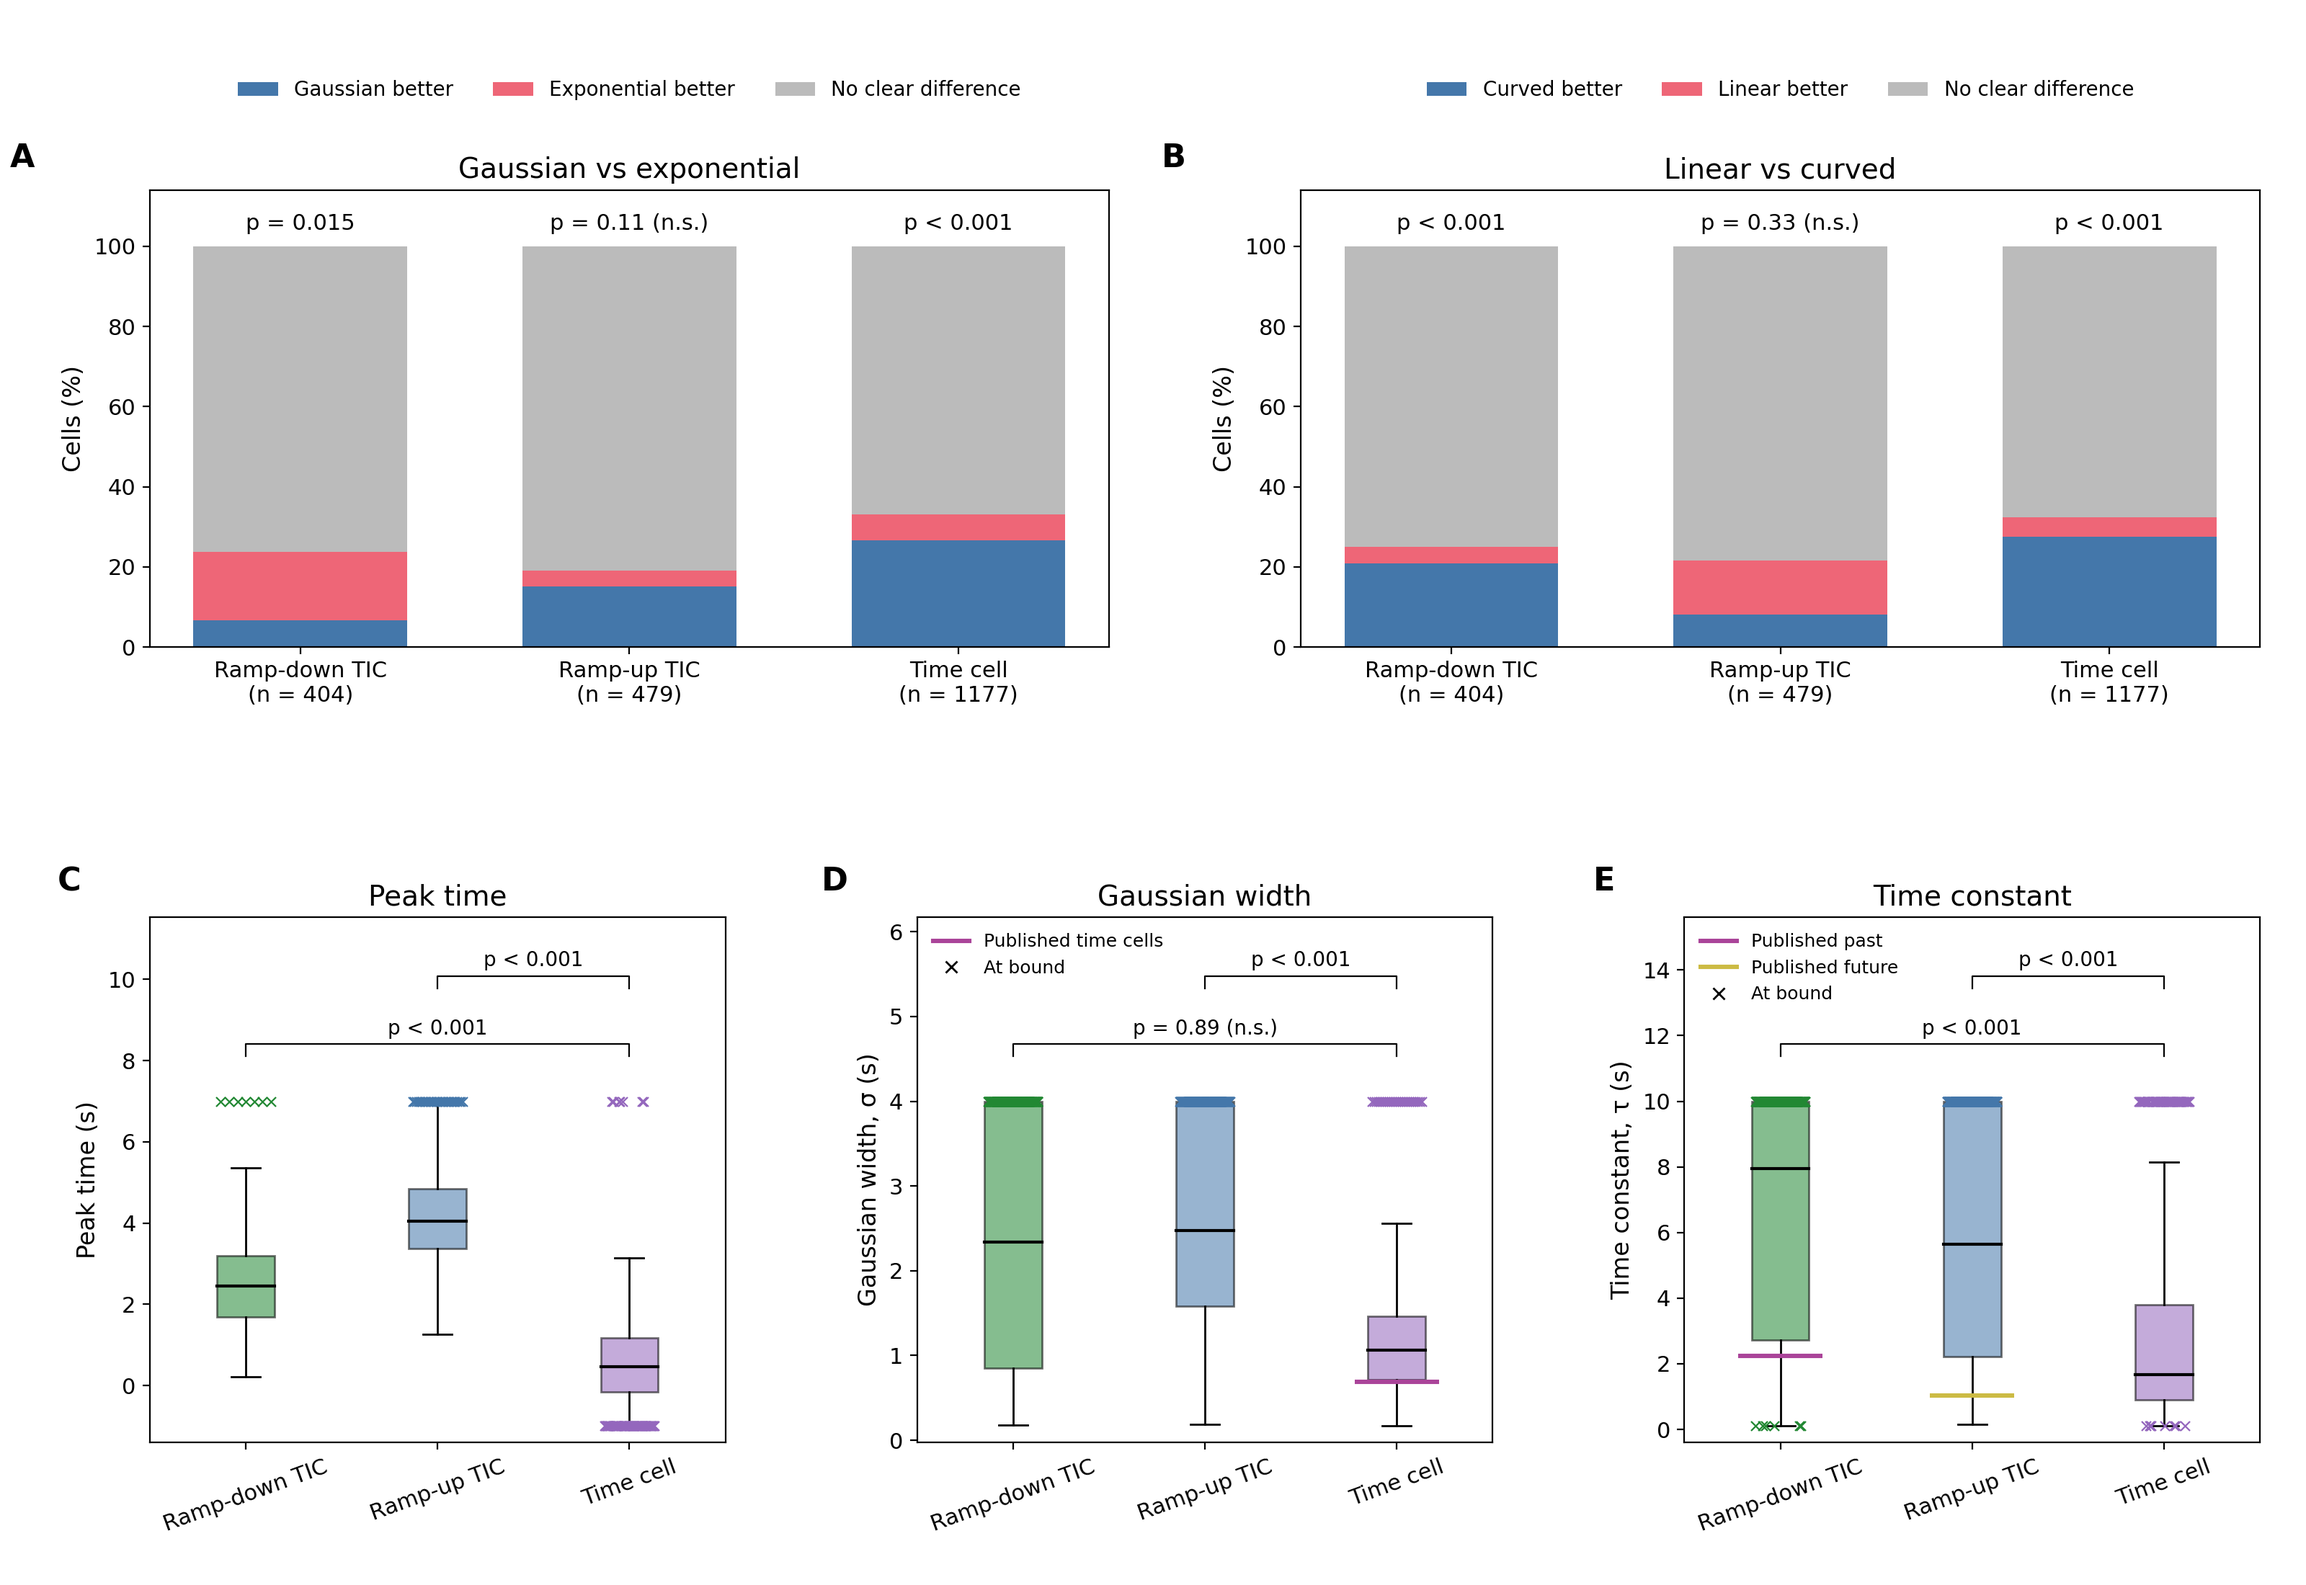
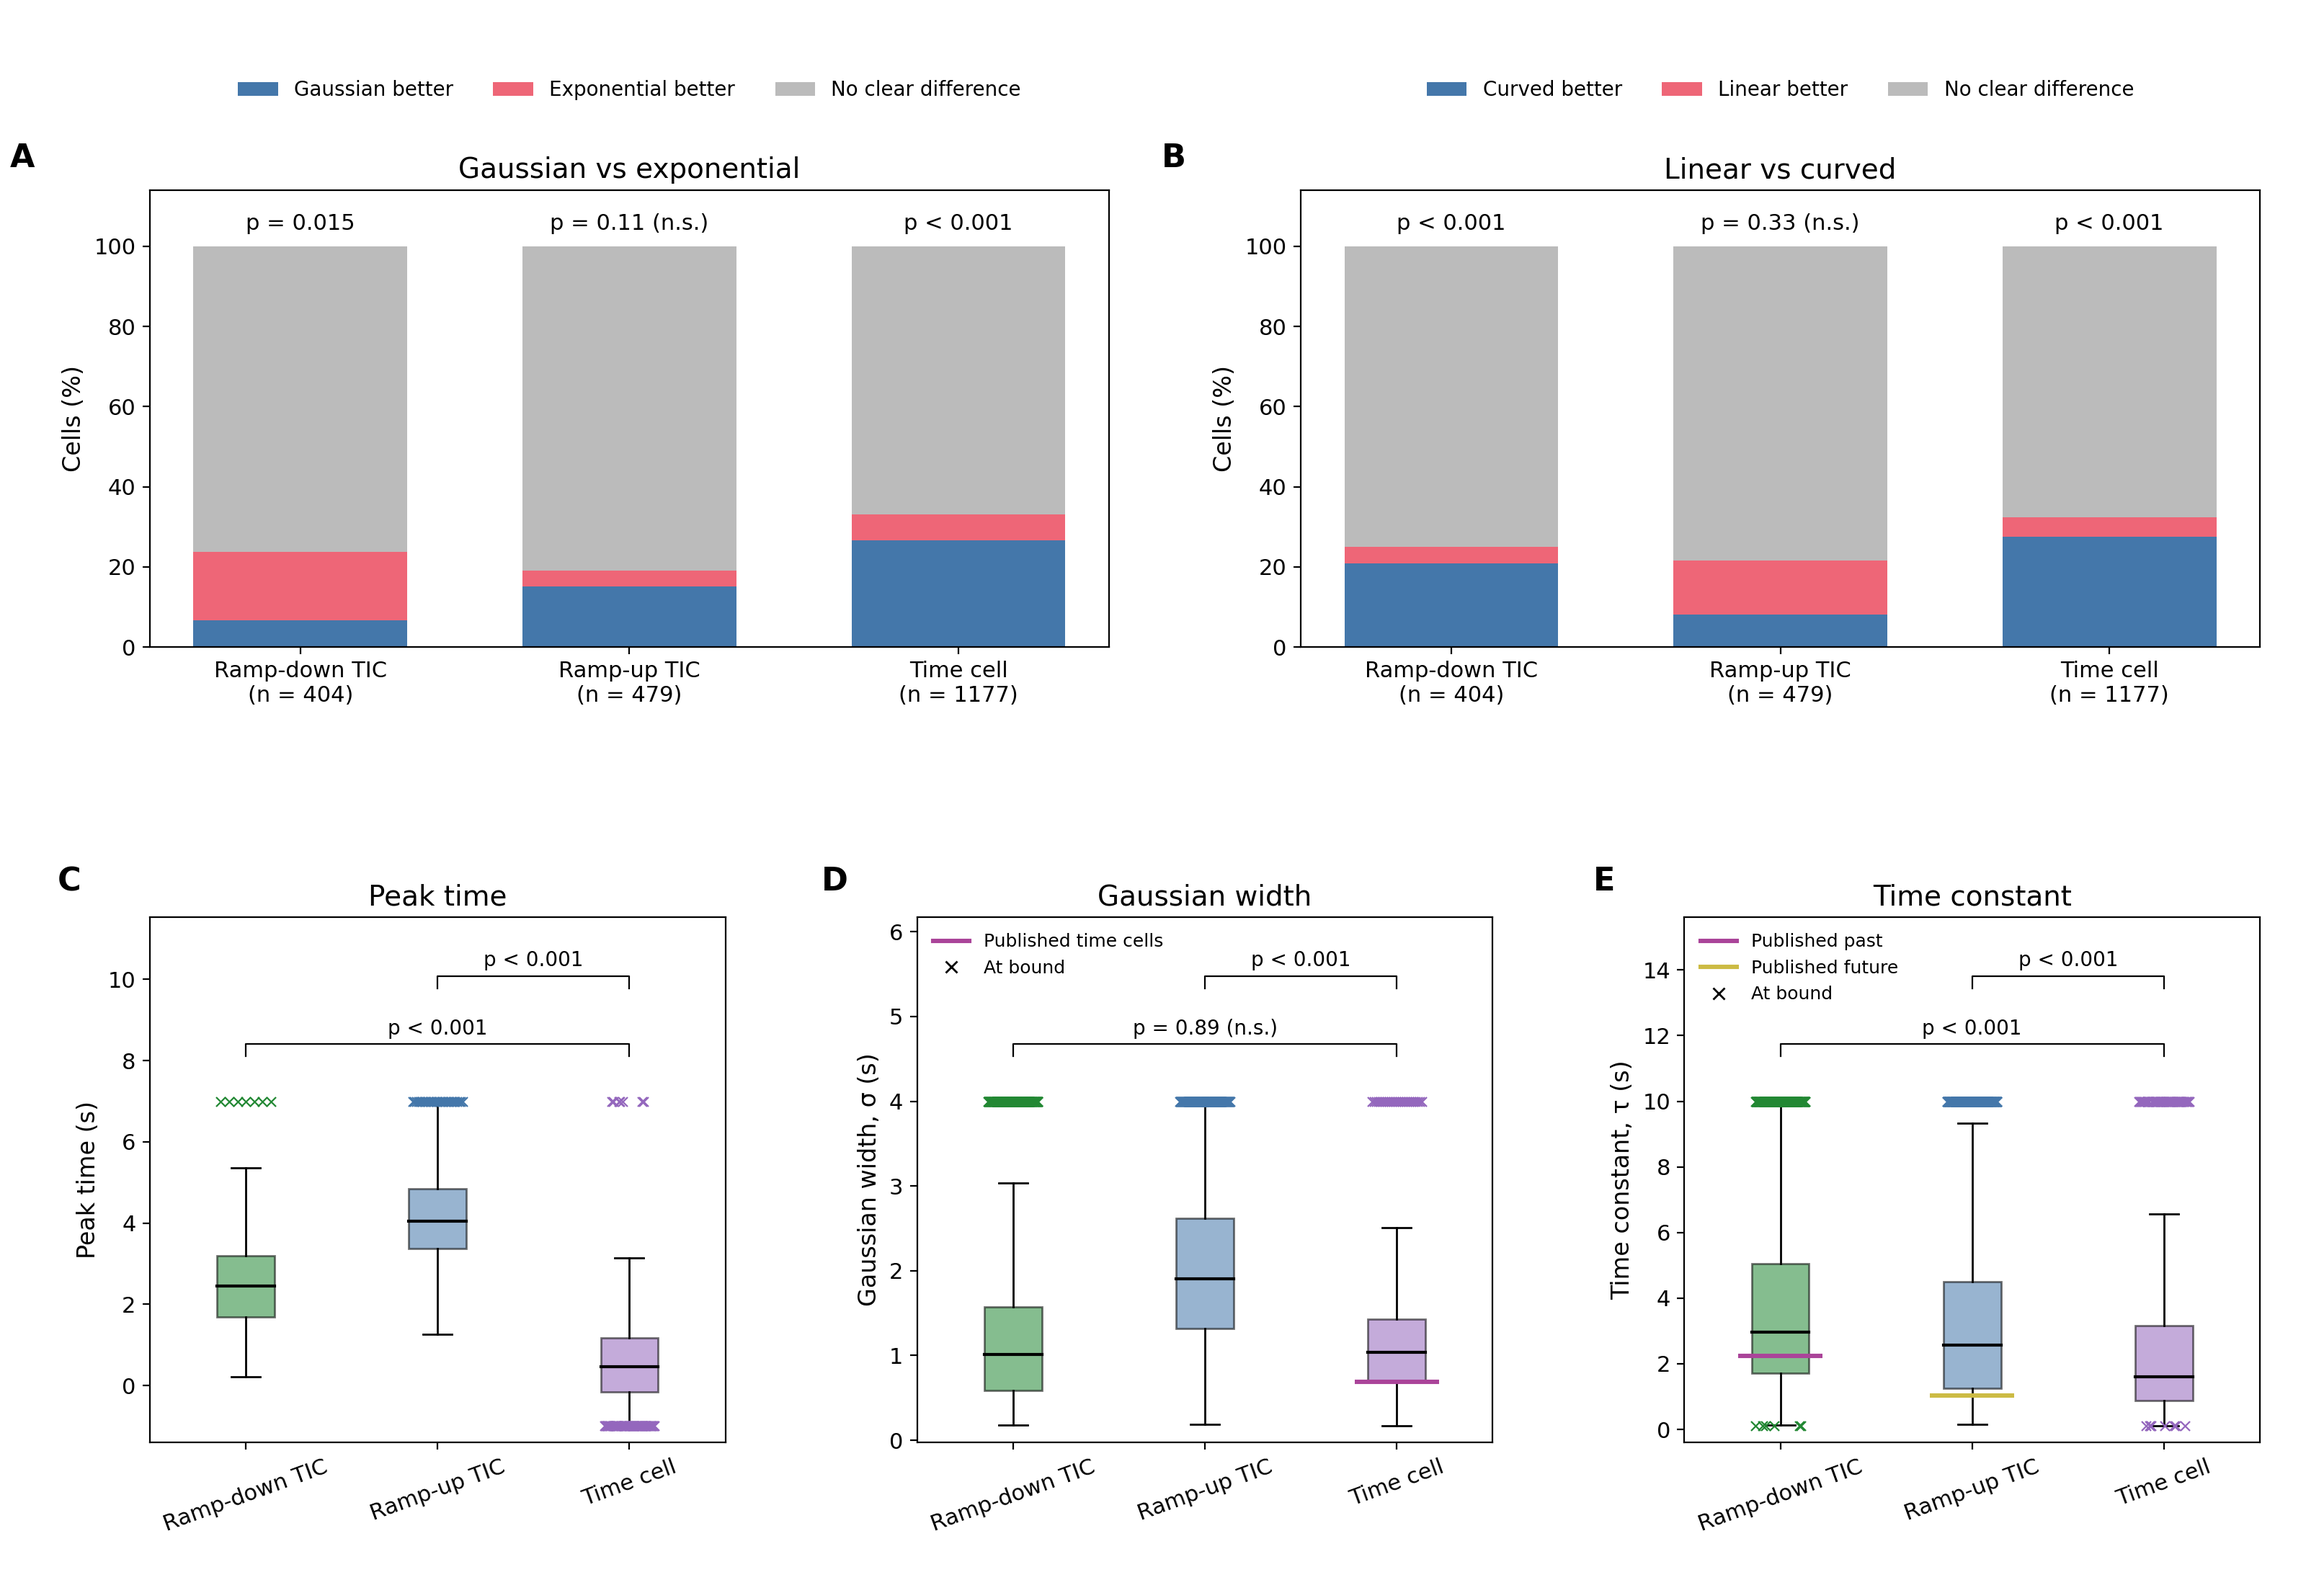
plot unbound summary parameter boxes

diff --git a/analysis/summary_figure.py b/analysis/summary_figure.py
@@ -246,7 +246,7 @@ def make_figure(table, fits, suffix='', wider=False):
     for ax, panel, measure, title, ylabel in zip(axes[2:], ['C', 'D', 'E'],
             ['peak', 'width', 'ramp rate'], ['Peak time', 'Gaussian width', 'Time constant'],
             ['Peak time (s)', 'Gaussian width, σ (s)', 'Time constant, τ (s)']):
-        values = [parameter_values(fits, group, measure, include_bound=wider)[0][parameter_values(fits, group, measure)[1]].to_numpy()
+        values = [parameter_values(fits, group, measure, include_bound=wider and measure == 'peak')[0][parameter_values(fits, group, measure)[1]].to_numpy()
                   for group in GROUPS]
         boxes = ax.boxplot(values, labels=LABELS, showfliers=False, patch_artist=True,
                            medianprops={'color': 'black', 'linewidth': 1.5})
